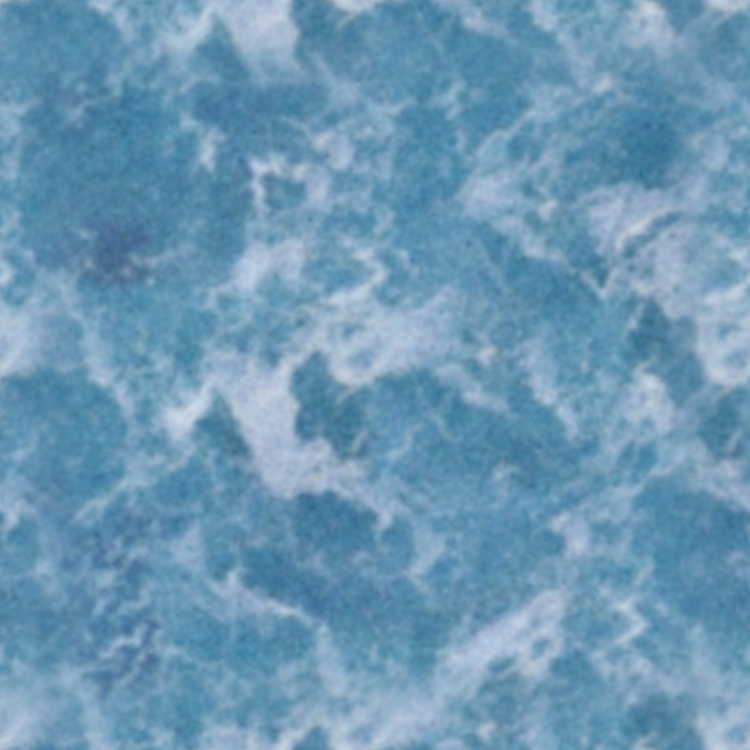
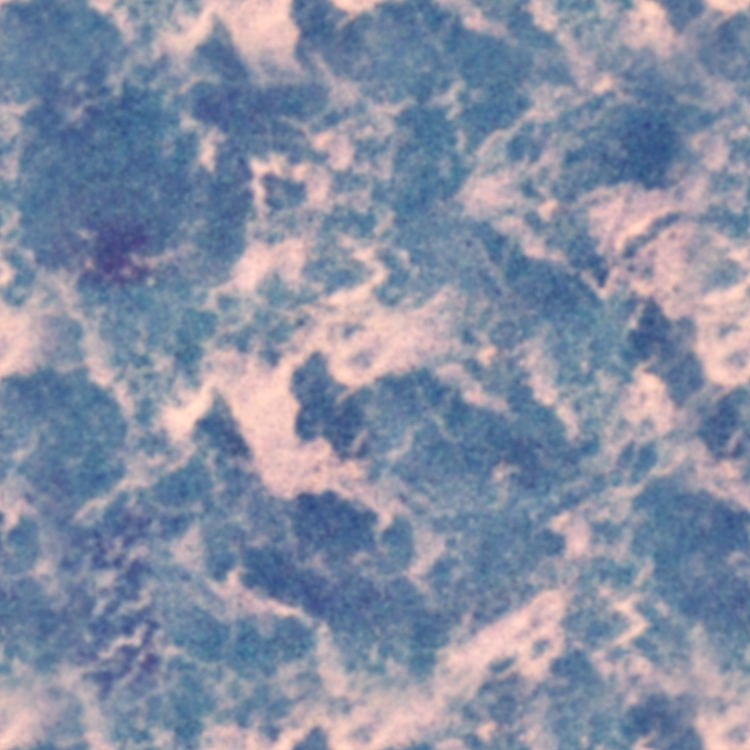
added sunset clouds

diff --git a/levels/level.py b/levels/level.py
@@ -30,68 +30,6 @@ INVINCIBLE_TIME_MS = 2000
 INVINCIBLE_FLASH_MS = 100
 
 class Level:
-    CLOUDSIMG = [
-        pygame.image.load("res/cloud-1.png"),
-        pygame.image.load("res/cloud-2.png"),
-        pygame.image.load("res/cloud-3.png"),
-        pygame.image.load("res/cloud-4.png"),
-        pygame.image.load("res/cloud-5.png"),
-    ]
-
-    LVL_VALS = {
-        "grass1": {
-            "img_location": "res/grass-1.jpg",
-            "NB_HEIGHT_TILES" : 3,
-            "BG_SPEED" : 3,
-            "OFFSET" : 3,
-            "CLOUDS" : 2,
-            "CLOUD_SPEED": 5
-        },
-        "grass2": {
-            "img_location": "res/grass-2.jpg",
-            "NB_HEIGHT_TILES" : 3,
-            "BG_SPEED" : 10,
-            "OFFSET" : 3,
-            "CLOUDS" : 2,
-            "CLOUD_SPEED": 5
-        },
-        "grass3": {
-            "img_location": "res/grass-3.jpg",
-            "NB_HEIGHT_TILES" : 3,
-            "BG_SPEED" : 10,
-            "OFFSET" : 3,
-            "CLOUDS" : 2,
-            "CLOUD_SPEED": 5
-        },
-        "sea1": {
-            "img_location": "res/sea-1.jpg",
-            "NB_HEIGHT_TILES" : 4,
-            "BG_SPEED" : 2,
-            "OFFSET" : 5,
-            "CLOUDS" : 40,
-            "CLOUD_SPEED": 2
-        },
-        "sea2": {
-            "img_location": "res/sea-2.jpg",
-            "NB_HEIGHT_TILES" : 4,
-            "BG_SPEED" : 2,
-            "OFFSET" : 2,
-            "CLOUDS" : 50,
-            "CLOUD_SPEED": 10
-        }
-    }
-    LEVEL = "grass1"
-    CLOUDS = LVL_VALS[LEVEL]["CLOUDS"]
-    CLOUD_SPEED = LVL_VALS[LEVEL]["CLOUD_SPEED"]
-    NB_HEIGHT_TILES = LVL_VALS[LEVEL]["NB_HEIGHT_TILES"]     # note: must be higher than 1
-    BG_SPEED = LVL_VALS[LEVEL]["BG_SPEED"]
-    OFFSET = LVL_VALS[LEVEL]["OFFSET"]                      # tweek if you see gaps in the textures (this shit is black magic)
-    BG = pygame.image.load(LVL_VALS[LEVEL]["img_location"],)
-    SIZE_TILE = int(HEIGHT/(NB_HEIGHT_TILES-1))
-    NB_WIDTH_TILES = ceil(WIDTH/(2*SIZE_TILE))
-    NB_TOT_TILES = NB_WIDTH_TILES * NB_HEIGHT_TILES
-    LOADING_TILES = False
-
     MAX_FROST = 10
 
     def __init__(self, game, num: int, screen: pygame.Surface, gameWorldSurf: pygame.surface, dicEnemyPrototypes: dict, dicEnemySpawns: dict, levelEndMs: int) -> None:
@@ -101,8 +39,6 @@ class Level:
         self.dicEnemyPrototypes = dicEnemyPrototypes
         self.gameWorldSurf = gameWorldSurf
         self.dicEnemySpawns = dicEnemySpawns
-        self.background = self.BG
-
         self.frostLevel = self.MAX_FROST/2
 
         # Setting up groups
@@ -413,9 +349,24 @@ def loadLevel(game, screen: pygame.Surface, levelNum: int) -> Level:
         level.BG_SPEED = levelData["bgOptions"]["BG_SPEED"]
         level.OFFSET = levelData["bgOptions"]["OFFSET"]                      # tweek if you see gaps in the textures (this shit is black magic)
         level.BG = pygame.image.load(levelData["bgOptions"]["img_location"],)
+        level.CLOUD_TYPE = levelData["bgOptions"]["CLOUD_TYPE"] if "CLOUD_TYPE" in levelData["bgOptions"] else "normal"
         level.SIZE_TILE = int(HEIGHT/(level.NB_HEIGHT_TILES-1))
         level.NB_WIDTH_TILES = ceil(WIDTH/(2*level.SIZE_TILE))
         level.NB_TOT_TILES = level.NB_WIDTH_TILES * level.NB_HEIGHT_TILES
+
+        level.background = level.BG
+        if level.CLOUD_TYPE == "sunset":
+            level.CLOUDSIMG = [
+                pygame.image.load("res/cloud-1-set.png"),
+            ]
+        else:
+            level.CLOUDSIMG = [
+                pygame.image.load("res/cloud-1.png"),
+                pygame.image.load("res/cloud-2.png"),
+                pygame.image.load("res/cloud-3.png"),
+                pygame.image.load("res/cloud-4.png"),
+                pygame.image.load("res/cloud-5.png"),
+            ]
 
         # Generate initial clouds
         for _ in range(level.CLOUDS):
